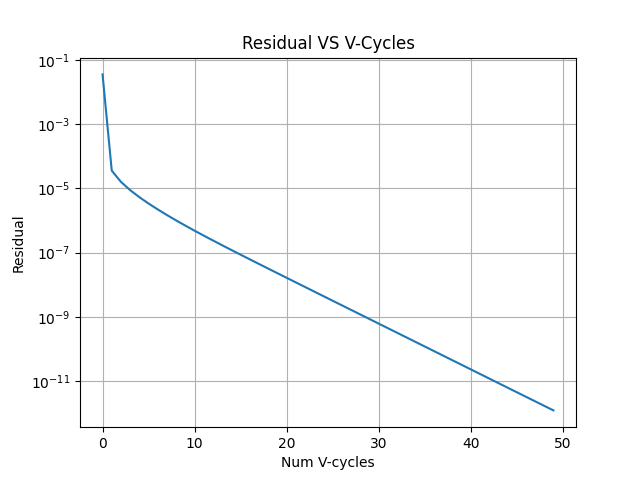
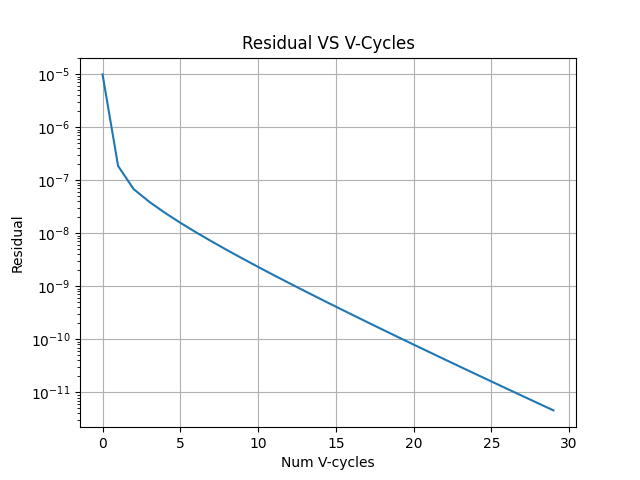
Correction Implemented

diff --git a/checking_V-cycle.py b/checking_V-cycle.py
@@ -9,11 +9,11 @@ from mpi4py import MPI
 from petsc4py import PETSc
 import matplotlib.pyplot as plt
 
-num_elems_fine = 128
+num_elems_fine = 512
 num_elems_coarse = num_elems_fine // 2
 
-num_V_cycles = 50
-num_jacobi_iter = 100
+num_V_cycles = 30
+num_jacobi_iter = 2
 omega = 2/3
 
 mesh_fine = dolfinx.UnitSquareMesh(
@@ -112,8 +112,7 @@ dolfinx.fem.set_bc(b_coarse, [bc_coarse])
 b_vec_fine = np.array(b_fine.array).reshape((num_elems_fine+1)**2, 1)
 b_vec_coarse = np.array(b_coarse.array).reshape((num_elems_coarse+1)**2, 1)
 
-# Creating A matrices
-
+# Creating A matrices for 2 Levels
 A_mat_diag_fine = A_sp_fine.diagonal()
 R_fine = A_sp_fine - scp.sparse.diags(A_mat_diag_fine, 0)
 A_mat_diag_inv_fine = 1 / A_mat_diag_fine
@@ -288,6 +287,8 @@ def jacobi_smoothing(R_omega, diag_inv, vec, f, nu):
         vec = sol
     return vec
 
+# Function to calculate Errors
+
 
 def err_calculation(u_vec):
     u_V_cyc = dolfinx.Function(V_fine)
@@ -295,6 +296,16 @@ def err_calculation(u_vec):
     L2_error_V_cyc = ufl.inner(u_V_cyc - u_exact, u_V_cyc - u_exact) * ufl.dx
     error_L2_V_cyc = np.sqrt(dolfinx.fem.assemble_scalar(L2_error_V_cyc))
     return error_L2_V_cyc
+
+# Function to calculate Residual after each V-cycle
+
+
+def res_calculation(res):
+    res_v_cyc = dolfinx.Function(V_fine)
+    res_v_cyc.vector[:] = res
+    L2_res_v_cyc = ufl.inner(res_v_cyc, res_v_cyc)*ufl.dx
+    res_L2_v_cyc = np.sqrt(dolfinx.fem.assemble_scalar(L2_res_v_cyc))
+    return res_L2_v_cyc
 
 
 # Calculating the exact coarse solution
@@ -307,8 +318,8 @@ error_after_V_cycle = []
 residual_V_cycle = []
 #residual_after_V_cycle = []
 for i in range(0, num_V_cycles):
-    residual_V_cycle.append(np.linalg.norm(
-        b_vec_fine - A_sp_fine.dot(uh_V_cycle_soln)))
+    res = b_vec_fine - A_sp_fine.dot(uh_V_cycle_soln)
+    residual_V_cycle.append(res_calculation(res))
     error_before_V_cycle.append(err_calculation(uh_V_cycle_soln))
     # Starting at fine level Pre Smoothing
     vec_h = jacobi_smoothing(R_omega_fine, diag_inv_fine,
